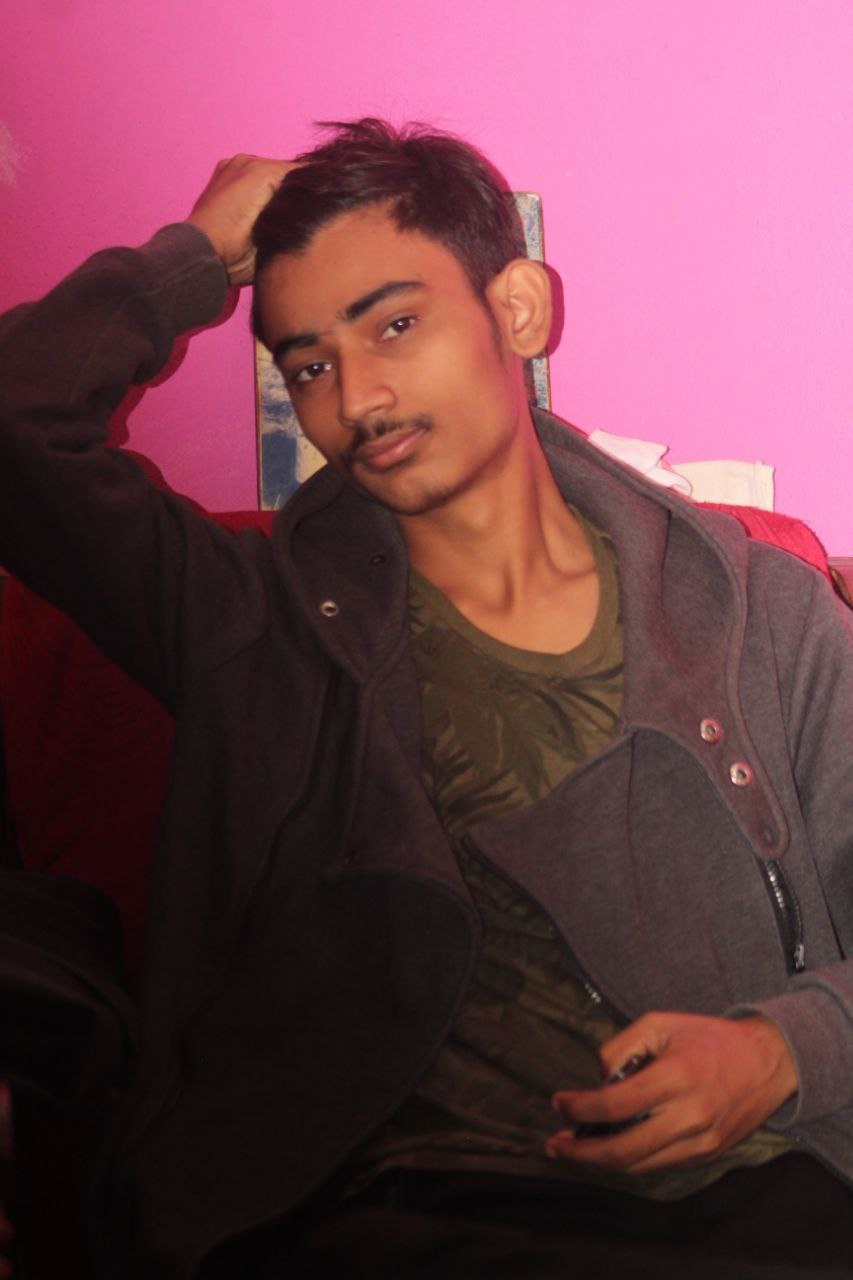
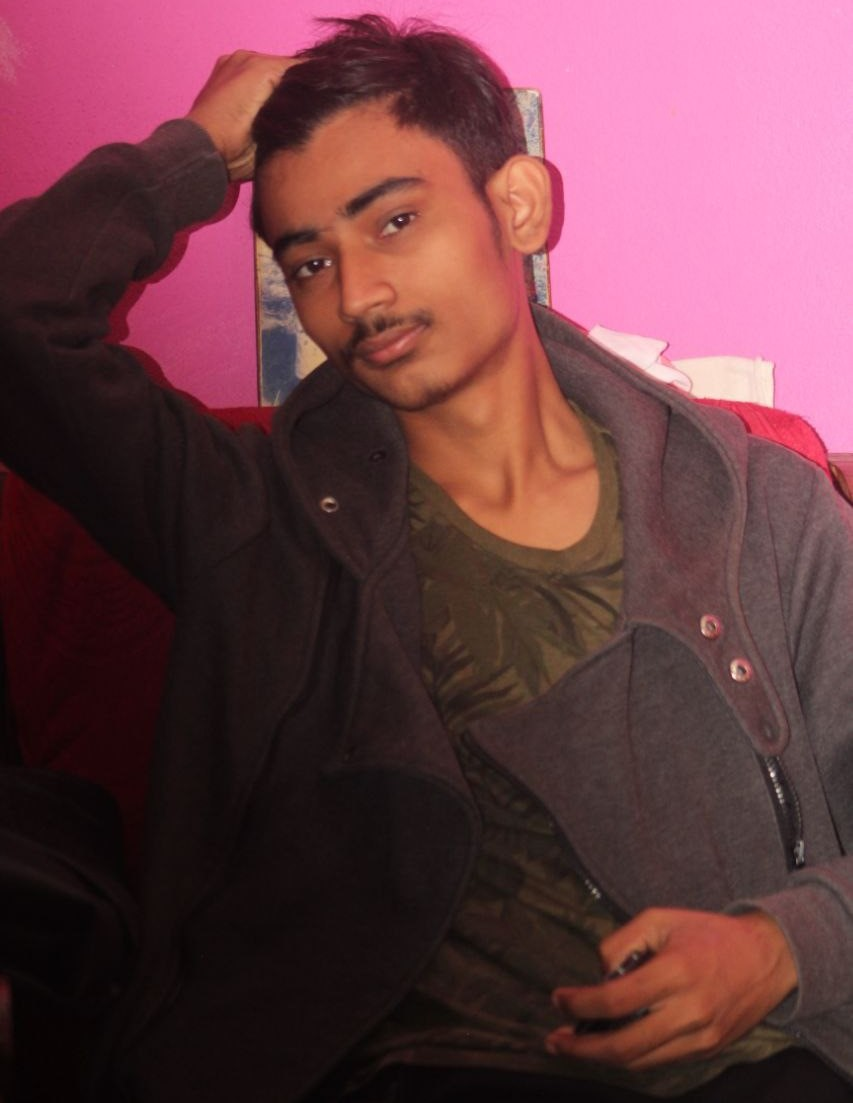
complete contact info

diff --git a/src/content_option.js b/src/content_option.js
@@ -11,7 +11,7 @@ const introdata = {
         second: "I code cool websites",
         third: "I develop mobile apps",
     },
-    description: "Hi 👋, I'm Bibek Bohora \n A passionate Flutter developer from Nepal",
+    description: "Hi 👋, I'm Bibek Bohora",
     profileimage: "https://images.unsplash.com/photo-1514790193030-c89d266d5a9d",
 };
 
@@ -77,10 +77,16 @@ const services = [
     
     {
         title: "Mobile Apps",
-        description: "",
+        description: "I am passionate about Mobile Applicatons. I am working as flutter developer at BroSoft.Experienced software engineer with Flutter mobile projects where I participated as a key developer: Understanding of complex solutions, programming technologies, and design patterns. Experienced in Flutter development. Experienced in customer communication and technical assistance.",
     },
     {
-        title: "Wordpress Design",
+        title: "Reacts js",
+        description: "I am passionate about building excellent software that improves the lives of those around me.",
+    },
+
+
+    {
+        title: "Nodejs ",
         description: "I am passionate about building excellent software that improves the lives of those around me.",
     },
 ];
@@ -151,7 +157,7 @@ const dataportfolio = [{
 const contactConfig = {
     YOUR_EMAIL: "bibchhetri5678@gmail.com",
     YOUR_FONE: "9843111113",
-    description: "Lorem ipsum dolor sit amet, consectetur adipiscing elit. Morbi vehicula eu nunc et sollicitudin. Cras pulvinar, nisi at imperdiet pharetra. ",
+    description: "Feel free to get in touch with me. I am always open to discussing new projects, creative ideas or opportunities to be part of your visions.",
     // creat an emailjs.com account 
     // check out this tutorial https://www.emailjs.com/docs/examples/reactjs/
     YOUR_SERVICE_ID: "service_gihc4pg",

diff --git a/src/pages/about/index.js b/src/pages/about/index.js
@@ -19,8 +19,8 @@ export const About = () => {
             src={dataabout.profileimage}
             style={{
               borderRadius: "50%",
-              width: "200px",
-              height: "200px",
+              width: "210px",
+              height: "265px",
               objectFit: "cover",
               display: "inside",
               margin: "0 auto",
@@ -33,7 +33,7 @@ export const About = () => {
           <h5>🎵🎵 ❚❚ ◁ 🎵🎵</h5>
           <h5>True music lover🎶</h5>
 
-          <h5>🅴🅽🆃🆁🅴p🆁🅴🅽🅴🆄🆁</h5>
+          <h5>🅴🅽🆃🆁🅴🅿🆁🅴🅽🅴🆄🆁</h5>
 
           <h4>🕉Namha shivaya</h4>
         </center>
@@ -47,6 +47,11 @@ export const About = () => {
           <Col lg="8">
             <h1 className="display-4 mb-4">About me</h1>
             <hr className="t_border my-4 ml-0 text-left" />
+            
+        
+            {/* <button onClick={handleDownload}>Download CV</button> */}
+          
+     
           </Col>
         </Row>
         <Row className="sec_sp">

diff --git a/src/pages/contact/index.js b/src/pages/contact/index.js
@@ -21,6 +21,11 @@ export const ContactUs = () => {
     e.preventDefault();
     setFormdata({ loading: true });
 
+    setFormdata((prevFormData) => ({
+      ...prevFormData,
+      message: "",
+    }));
+
     const templateParams = {
       email: formData.email,
       name: formData.name,
@@ -44,6 +49,8 @@ export const ContactUs = () => {
             variant: "success",
             show: true,
           });
+
+          
         },
         (error) => {
           console.log(error.text);

diff --git a/src/pages/home/index.js b/src/pages/home/index.js
@@ -38,6 +38,9 @@ export const Home = () => {
                   />
                 </h1>
                 <p className="mb-1x">{introdata.description}</p>
+                <p className="mb-1x">A passionate Flutter developer from Nepal</p>
+                <p className="mb-1x">Tech enthusiast</p>
+               
                 <div className="intro_btn-action pb-5">
                   <Link to="/portfolio" className="text_2">
                     <div id="button_p" className="ac_btn btn ">
